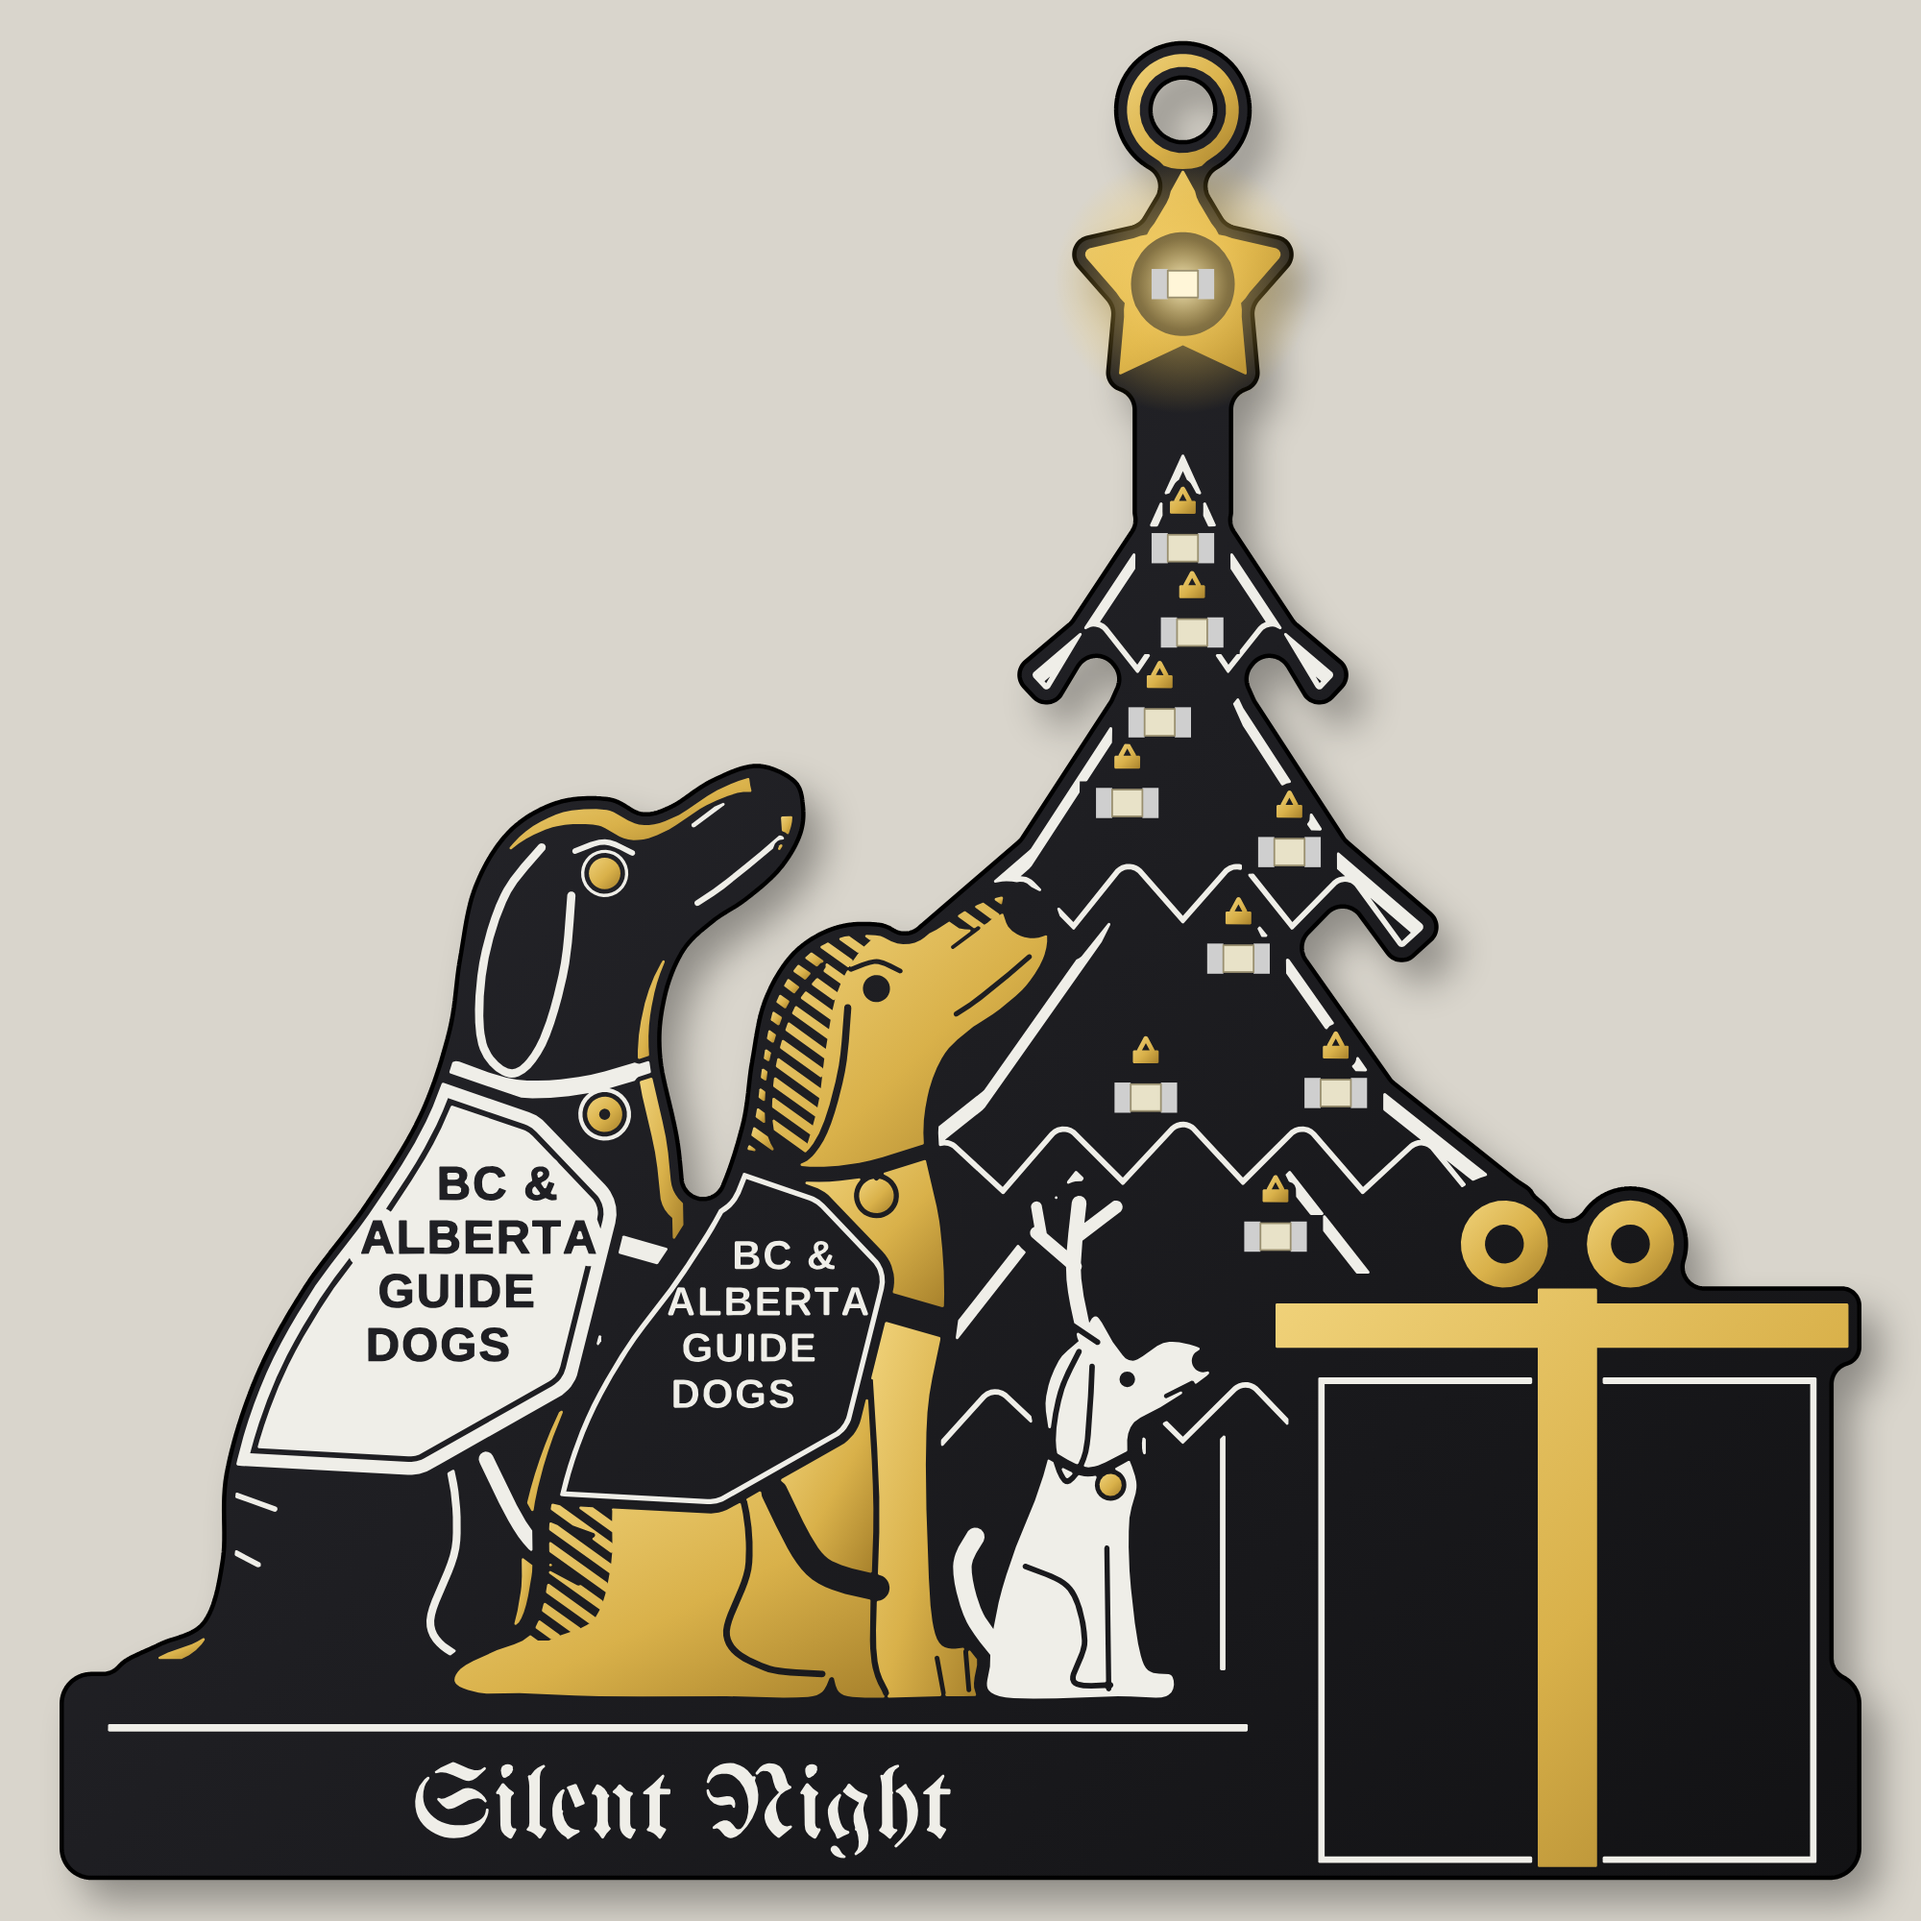
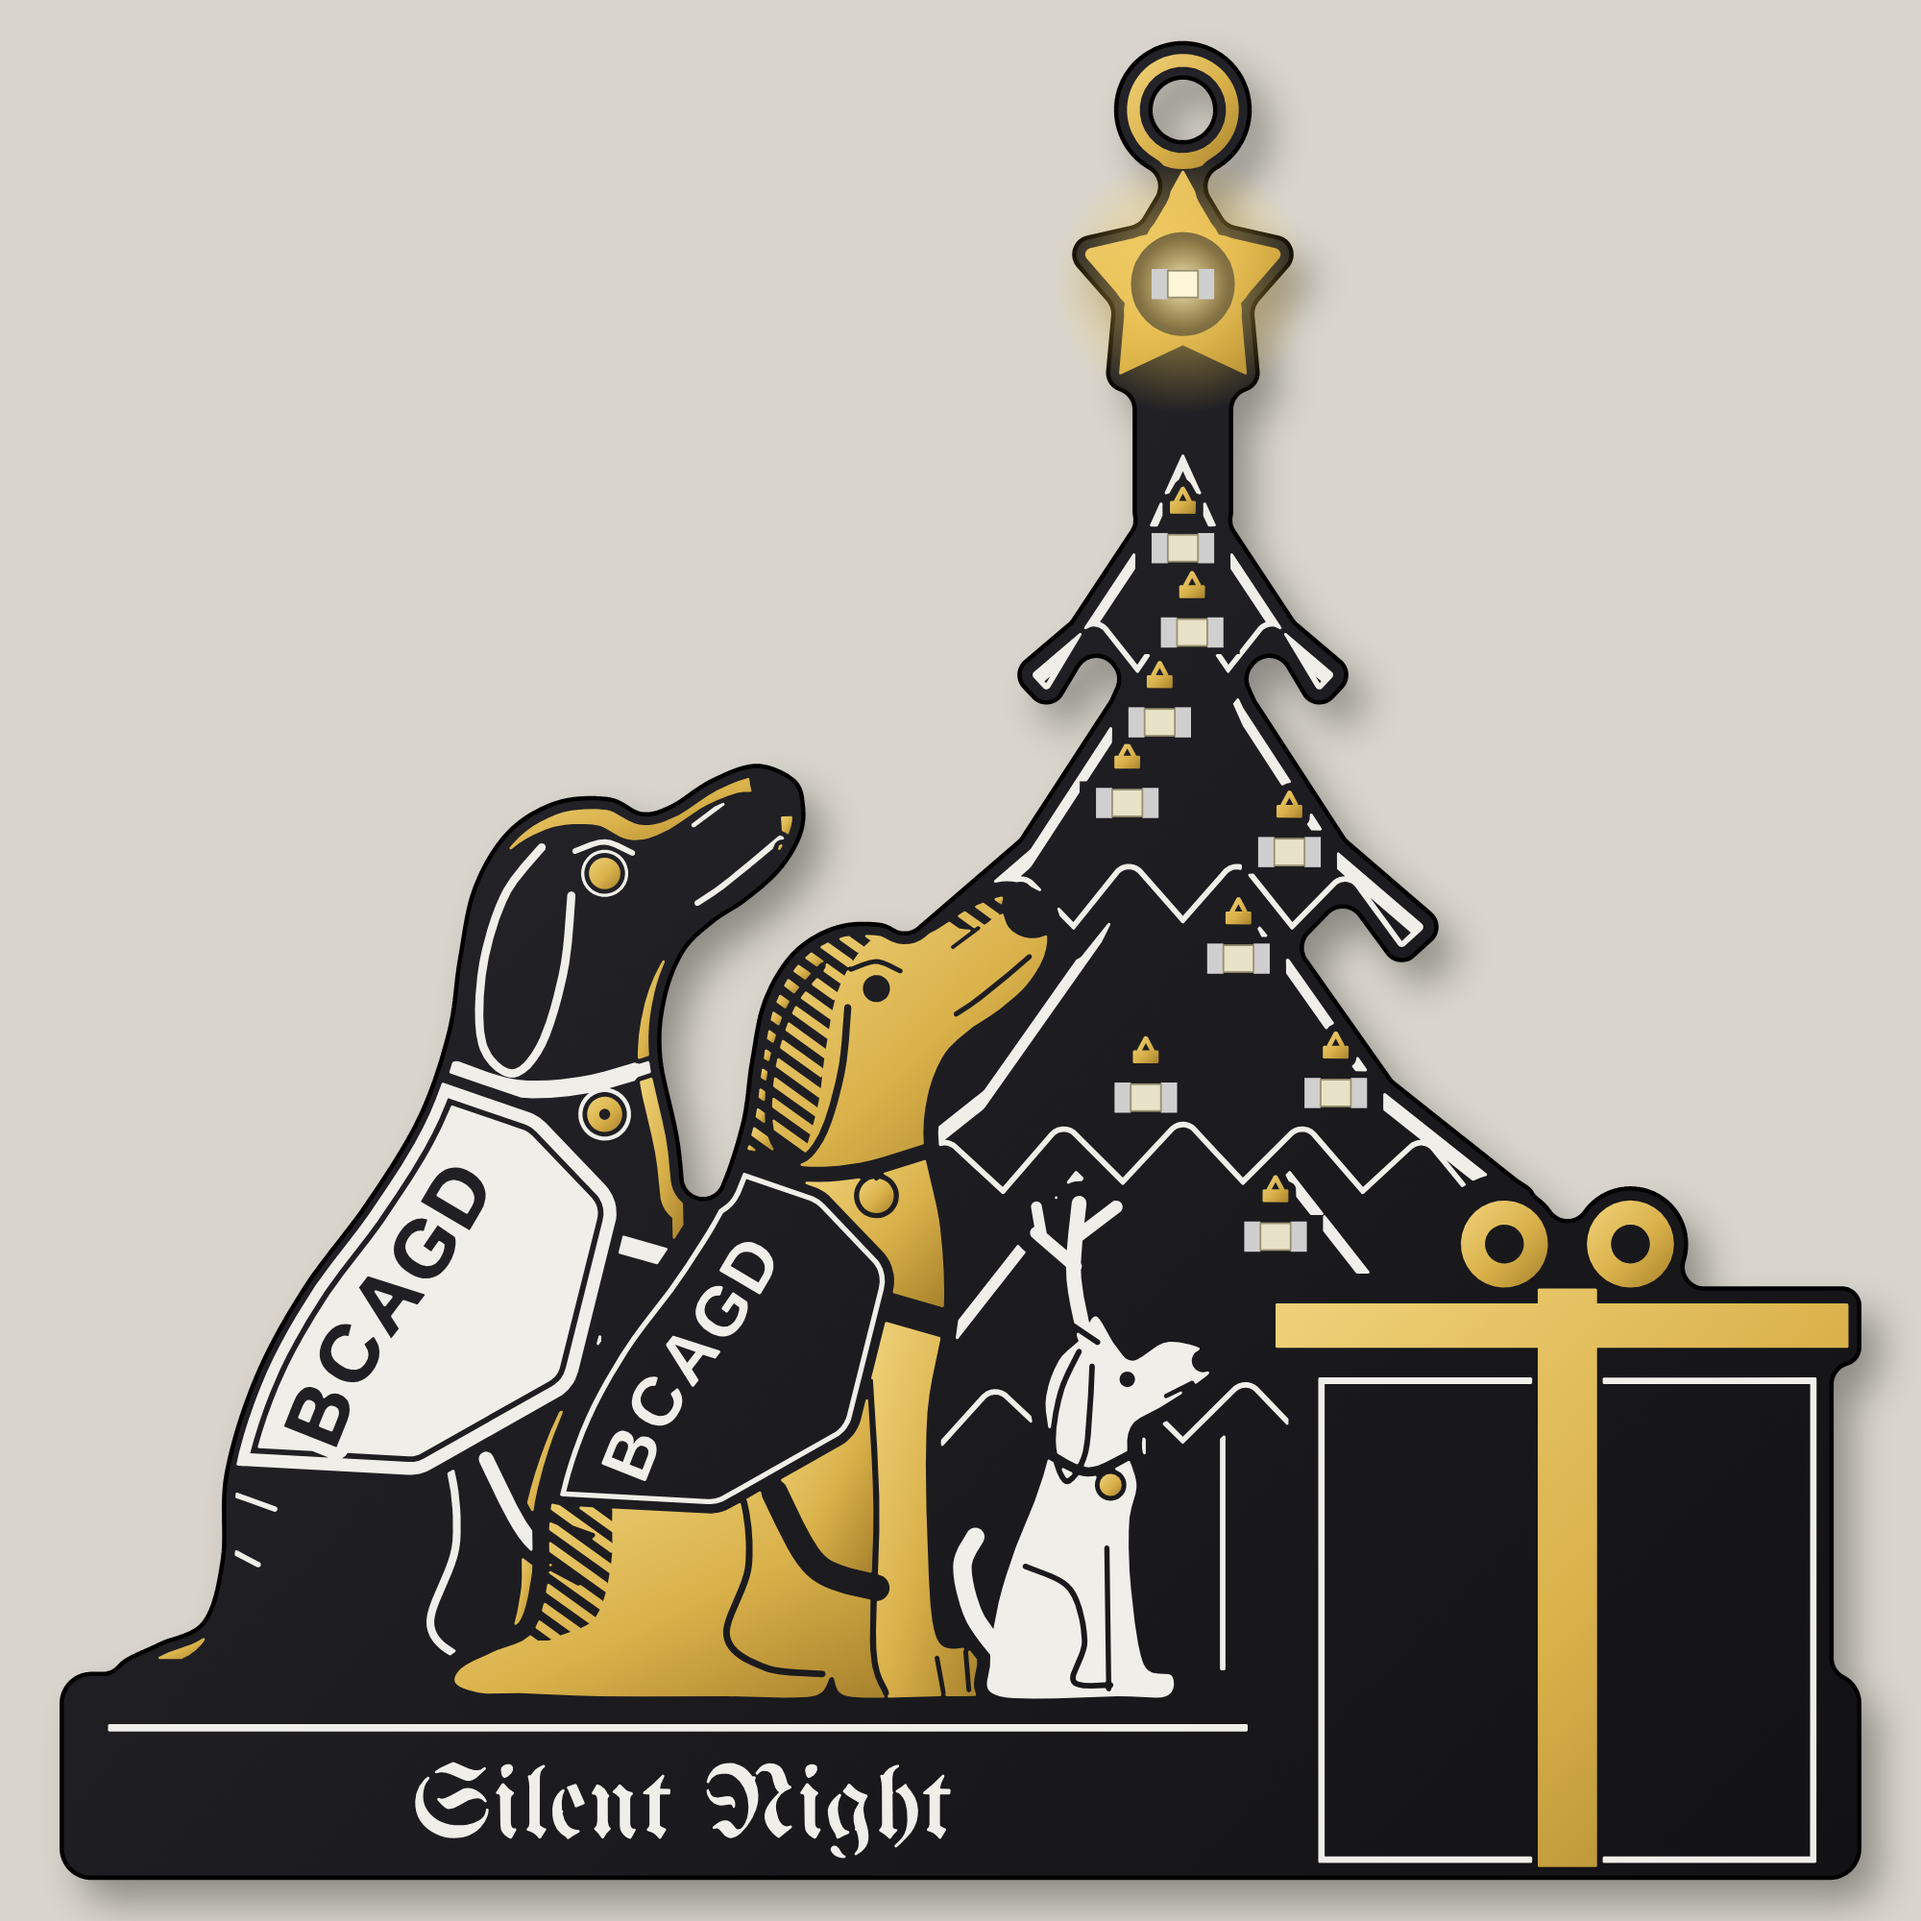
Letter the guide dog jackets BCAGD along each dog's back
Claude-Session: https://claude.ai/code/session_01LWeVxTjGJUc5PEY3V1Ku58

Changed region(s): [[0.155, 0.589, 0.31, 0.775], [0.31, 0.651, 0.434, 0.775]]

diff --git a/pcb-art/labrador-ornament/source/build_ornament.py b/pcb-art/labrador-ornament/source/build_ornament.py
@@ -212,8 +212,40 @@ Y = dict(sc=0.86, dx=7.0)
 SANS = "/usr/share/fonts/truetype/liberation/LiberationSans-Bold.ttf"
 jk_raw = Polygon([(27.0, 55.8), (13.0, 72.0), (16.5, 77.6), (27.5, 78.2), (36.0, 73.4), (38.6, 63.0), (34.0, 58.2)]).buffer(-2.5, join_style=1).buffer(2.5, join_style=1).intersection(dog)
 strap_raw = unary_union([stroke([(36.8, 65.0), (42.4, 66.6)], 1.5, smooth=False), stroke([(31.0, 77.0), (33.6, 81.6), (37.4, 83.0)], 1.3)]).intersection(dog).difference(jk_raw)
-jk_text_raw = unary_union([text_geom(t, x, y, 1.75, font=SANS, track=0.04) for t, x, y in
-                           [("BC &", 31.6, 63.0), ("ALBERTA", 30.6, 65.9), ("GUIDE", 29.4, 68.8), ("DOGS", 28.4, 71.7)]])
+def text_on_path(txt, line, cap_h, font, track=0.08):
+    """Lay glyphs along a LineString baseline (centred), each rotated to the local tangent."""
+    f = TTFont(font); gs = f.getGlyphSet(); cmap = f.getBestCmap()
+    upm = f["head"].unitsPerEm; sc = cap_h / (f["OS/2"].sCapHeight or 0.7 * upm)
+    glyphs, total = [], 0.0
+    for ch in txt:
+        g = gs[cmap[ord(ch)]]
+        fp = FlatPen(gs); g.draw(fp)
+        geo = Polygon()
+        for c in fp.contours:
+            geo = geo.symmetric_difference(Polygon([(px * sc, -py * sc) for px, py in c]).buffer(0))
+        w = g.width * sc
+        glyphs.append((geo, w)); total += w + track * cap_h
+    total -= track * cap_h
+    pos = line.length - total - 1.4      # sit toward the shoulder end of the jacket
+    out = []
+    for geo, w in glyphs:
+        mid = pos + w / 2
+        p0, p1 = line.interpolate(mid - 0.3), line.interpolate(mid + 0.3)
+        th = math.atan2(p1.y - p0.y, p1.x - p0.x)
+        c, sn = math.cos(th), math.sin(th)
+        pm = line.interpolate(mid)
+        # glyph is centred on its advance, rotated to the tangent, then moved to the path point
+        out.append(affinity.affine_transform(affinity.translate(geo, -w / 2, 0), [c, -sn, sn, c, pm.x, pm.y]))
+        pos += w + track * cap_h
+    return unary_union(out)
+JK_WORD = os.environ.get("JK_WORD", "BCAGD")
+_back = LineString(catmull([(16.6, 78.4), (18.6, 72.6), (21.2, 67.8), (24.6, 63.2), (27.6, 58.2)], closed=False))
+_base = _back.offset_curve(5.4)
+if not dog.contains(_base.interpolate(0.5, normalized=True)):
+    _base = _back.offset_curve(-5.4)
+if _base.coords[0][1] < _base.coords[-1][1]:
+    _base = LineString(list(_base.coords)[::-1])     # read from the rump up toward the head
+jk_text_raw = text_on_path(JK_WORD, _base, 3.0, SANS)
 print("JACKET", [round(v,1) for v in jk_raw.bounds], "TEXT", [round(v,1) for v in jk_text_raw.bounds], "fits", jk_raw.buffer(-0.6).contains(jk_text_raw))
 dog_dark = dog_dark.difference(jk_raw.buffer(0.3))
 bdog, bdark = place(dog, **B), place(dog_dark, **B)

diff --git a/pcb-art/labrador-ornament/README.md b/pcb-art/labrador-ornament/README.md
@@ -8,7 +8,7 @@ The board fits inside an **85 x 85 mm** square (83.3 mm wide, 85.0 mm tall). Eve
 **Black solder mask + ENIG finish + white silkscreen.**
 - **Yellow dog:** copper with the mask opened over it, so it comes out gold. Its details are strips of mask left on the copper.
 - **Black dog:** plain black mask with white silkscreen line work, a thin gold rim on the edges facing the star, and a gold eye and tag.
-- **Guide dog jackets:** both Labs wear a training jacket lettered "BC & ALBERTA GUIDE DOGS". The black dog's jacket is solid white silkscreen with the letters left black. The yellow dog's jacket is black mask with a white outline and white letters. The letters are 1.5 mm tall on the black dog and 1.3 mm on the yellow dog, in bold sans. That is above the usual 1.0 mm silkscreen minimum, but ask your fab if unsure. The jackets carry the name only, not the organisation's logo.
+- **Guide dog jackets:** both Labs wear a training jacket lettered "BCAGD" (BC & Alberta Guide Dogs), with the letters following the curve of the dog's back. The black dog's jacket is solid white silkscreen with the letters left black. The yellow dog's jacket is black mask with a white outline and white letters. The letters are about 2.6 mm tall on the black dog and 2.2 mm on the yellow dog. To change the word, set `JK_WORD` when running the build script.
 - **White dog:** solid white silkscreen with black details and a gold bell.
 - **Tree:** black mask with white edge lines. The dogs and the present sit in front of it. The star, the hanging eyelet and the present's ribbon are gold.
 
